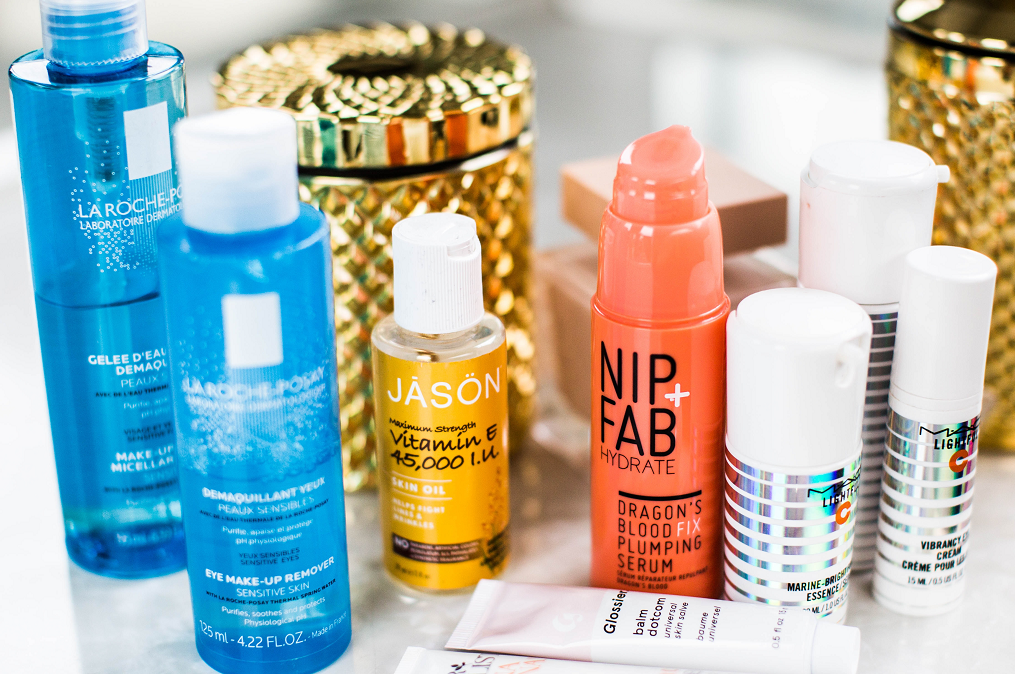
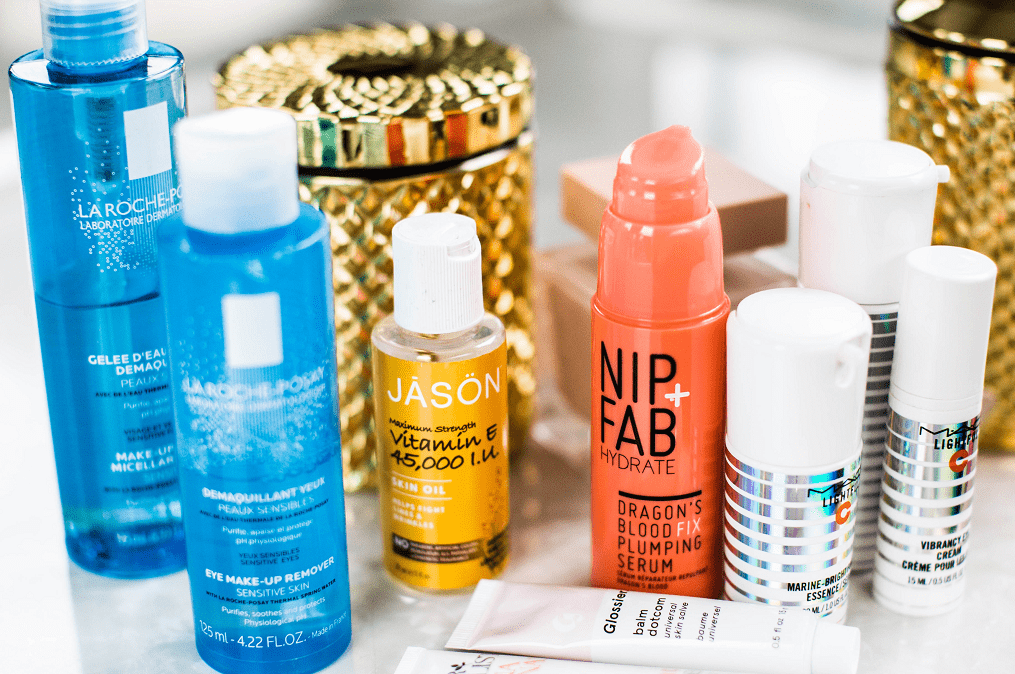
Fixed delivery address and reduced size of pictures

diff --git a/lib/src/pages/delivery_pickup.dart b/lib/src/pages/delivery_pickup.dart
@@ -22,7 +22,7 @@ import '../helpers/app_config.dart' as config;
 
 class DeliveryPickupWidget extends StatefulWidget {
   final RouteArgument routeArgument;
-  Address address;
+
   DeliveryPickupWidget({Key key, this.routeArgument}) : super(key: key);
 
 
@@ -46,6 +46,7 @@ class _DeliveryPickupWidgetState extends StateMVC<DeliveryPickupWidget> {
   Widget build(BuildContext context) {
     if (_con.list == null) {
       _con.list = new PaymentMethodList(context);
+      _con.listenForAddresses();
 //      widget.pickup = widget.list.pickupList.elementAt(0);
 //      widget.delivery = widget.list.pickupList.elementAt(1);
     }
@@ -54,22 +55,31 @@ class _DeliveryPickupWidgetState extends StateMVC<DeliveryPickupWidget> {
       bottomNavigationBar: CartBottomDetailsWidget(con: _con),
       appBar: AppBar(
         leading: BackButton(
-          color: Theme.of(context).accentColor,
+          color: Theme
+              .of(context)
+              .accentColor,
         ),
         backgroundColor: Colors.transparent,
         elevation: 0,
         centerTitle: true,
         title: Text(
-          S.of(context).delivery_or_pickup,
-          style: Theme.of(context)
+          S
+              .of(context)
+              .delivery_or_pickup,
+          style: Theme
+              .of(context)
               .textTheme
               .headline6
               .merge(TextStyle(letterSpacing: 1.3)),
         ),
         actions: <Widget>[
           new ShoppingCartButtonWidget(
-              iconColor: Theme.of(context).hintColor,
-              labelColor: Theme.of(context).accentColor),
+              iconColor: Theme
+                  .of(context)
+                  .hintColor,
+              labelColor: Theme
+                  .of(context)
+                  .accentColor),
         ],
       ),
       body: SingleChildScrollView(
@@ -119,34 +129,51 @@ class _DeliveryPickupWidgetState extends StateMVC<DeliveryPickupWidget> {
                     contentPadding: EdgeInsets.symmetric(vertical: 0),
                     leading: Icon(
                       Icons.map,
-                      color: Theme.of(context).hintColor,
+                      color: Theme
+                          .of(context)
+                          .hintColor,
                     ),
                     title: Text(
-                      S.of(context).delivery,
+                      S
+                          .of(context)
+                          .delivery,
                       maxLines: 1,
                       overflow: TextOverflow.ellipsis,
-                      style: Theme.of(context).textTheme.headline4,
+                      style: Theme
+                          .of(context)
+                          .textTheme
+                          .headline4,
                     ),
                     subtitle: _con.carts.isNotEmpty &&
-                            Helper.canDelivery(_con.carts[0].food.restaurant,
-                                carts: _con.carts)
+                        Helper.canDelivery(_con.carts[0].food.restaurant,
+                            carts: _con.carts)
                         ? Text(
-                            S.of(context).click_to_confirm_your_address_and_pay_or_long_press,
-                            maxLines: 3,
-                            overflow: TextOverflow.ellipsis,
-                            style: Theme.of(context).textTheme.caption,
-                          )
+                      S
+                          .of(context)
+                          .click_to_confirm_your_address_and_pay_or_long_press,
+                      maxLines: 3,
+                      overflow: TextOverflow.ellipsis,
+                      style: Theme
+                          .of(context)
+                          .textTheme
+                          .caption,
+                    )
                         : Text(
-                            S.of(context).deliveryMethodNotAllowed,
-                            maxLines: 3,
-                            overflow: TextOverflow.ellipsis,
-                            style: Theme.of(context).textTheme.caption,
-                          ),
+                      S
+                          .of(context)
+                          .deliveryMethodNotAllowed,
+                      maxLines: 3,
+                      overflow: TextOverflow.ellipsis,
+                      style: Theme
+                          .of(context)
+                          .textTheme
+                          .caption,
+                    ),
                   ),
                 ),
                 _con.carts.isNotEmpty &&
-                        Helper.canDelivery(_con.carts[0].food.restaurant,
-                            carts: _con.carts)
+                    Helper.canDelivery(_con.carts[0].food.restaurant,
+                        carts: _con.carts)
 //                ? ListView.separated(
 //                    padding: EdgeInsets.symmetric(vertical: 15),
 //                    scrollDirection: Axis.vertical,
@@ -183,34 +210,71 @@ class _DeliveryPickupWidgetState extends StateMVC<DeliveryPickupWidget> {
 //                      );
 //                    },
 //                )
-                    ? DeliveryAddressesItemWidget(
-                        paymentMethod: _con.getDeliveryMethod(),
-                        address: _con.deliveryAddress,
-                        onPressed: (Address _address) {
-                          if (_con.deliveryAddress.id == null ||
-                              _con.deliveryAddress.id == 'null' ||
-                              currentUser.value.phone == null) {
-                            DeliveryAddressDialog(
-                              context: context,
-                              address: _address,
-                              onChanged: (Address _address) {
-                                _con.addAddress(_address);
-                              },
-                            );
-                          } else {
-                            _con.toggleDelivery();
-                          }
-                        },
-                        onLongPress: (Address _address) {
+                    ? ListView.builder(
+                  scrollDirection: Axis.vertical,
+                  itemCount: _con.deliveryAddress.length,
+                  shrinkWrap: true,
+                  primary: false,
+//                  padding: EdgeInsets.fromLTRB(0, 10, 0, 0),
+                  itemBuilder: (context, index) {
+                    return DeliveryAddressesItemWidget(
+                      paymentMethod: _con.getDeliveryMethod(),
+                      address: _con.deliveryAddress.elementAt(index),
+                      onPressed: (Address _address) {
+                        if (_address.id == null || _address.id == 'null' ||
+                            currentUser.value.phone == null) {
                           DeliveryAddressDialog(
                             context: context,
                             address: _address,
                             onChanged: (Address _address) {
-                              _con.updateAddress(_address);
+                              _con.addAddress(_address);
                             },
                           );
-                        },
-                      )
+
+                        } else {
+                          _con.toggleDelivery(currAddress: _address);
+                        }
+                      },
+                      onLongPress: (Address _address) {
+                        DeliveryAddressDialog(
+                          context: context,
+                          address: _address,
+                          onChanged: (Address _address) {
+                            _con.updateAddress(_address);
+                          },
+                        );
+                      },
+                    );
+                  },
+                )
+//                DeliveryAddressesItemWidget(
+//                        paymentMethod: _con.getDeliveryMethod(),
+//                        address: _con.deliveryAddress.first,
+//                        onPressed: (Address _address) {
+//                          if (_con.deliveryAddress.first.id == null ||
+//                              _con.deliveryAddress.first.id == 'null' ||
+//                              currentUser.value.phone == null) {
+//                            DeliveryAddressDialog(
+//                              context: context,
+//                              address: _address,
+//                              onChanged: (Address _address) {
+//                                _con.addAddress(_address);
+//                              },
+//                            );
+//                          } else {
+//                            _con.toggleDelivery();
+//                          }
+//                        },
+//                        onLongPress: (Address _address) {
+//                          DeliveryAddressDialog(
+//                            context: context,
+//                            address: _address,
+//                            onChanged: (Address _address) {
+//                              _con.updateAddress(_address);
+//                            },
+//                          );
+//                        },
+//                      )
 //                    : NotDeliverableAddressesItemWidget()
                     : CircularLoadingWidget(height: 150),
               ],

diff --git a/lib/src/controllers/delivery_pickup_controller.dart b/lib/src/controllers/delivery_pickup_controller.dart
@@ -10,25 +10,29 @@ import 'cart_controller.dart';
 
 class DeliveryPickupController extends CartController {
   GlobalKey<ScaffoldState> scaffoldKey;
-  model.Address deliveryAddress;
+  List<model.Address> deliveryAddress = new List<model.Address>();
   PaymentMethodList list;
 
   DeliveryPickupController() {
     this.scaffoldKey = new GlobalKey<ScaffoldState>();
     super.listenForCarts();
-    listenForDeliveryAddress();
+//    listenForDeliveryAddress();
+    listenForAddresses();
     print(settingRepo.deliveryAddress.value.toMap());
   }
 
   void listenForDeliveryAddress() async {
-    this.deliveryAddress = settingRepo.deliveryAddress.value;
+//    this.deliveryAddress = settingRepo.deliveryAddress.value;
+    deliveryAddress.add(settingRepo.deliveryAddress.value);
+
   }
 
   void addAddress(model.Address address) {
     userRepo.addAddress(address).then((value) {
       setState(() {
         settingRepo.deliveryAddress.value = value;
-        this.deliveryAddress = value;
+        deliveryAddress.add(value);
+//        this.deliveryAddress = value;
       });
     }).whenComplete(() {
       scaffoldKey?.currentState?.showSnackBar(SnackBar(
@@ -37,11 +41,54 @@ class DeliveryPickupController extends CartController {
     });
   }
 
+  void listenForAddresses({String message}) async {
+    final Stream<model.Address> stream = await userRepo.getAddresses();
+    stream.listen((model.Address _address) {
+      setState(() {
+        bool repeatingAddress = false;
+        this.deliveryAddress.forEach((element) {
+          if (element.id == _address.id || element.address == _address.address){
+            element = _address;
+            repeatingAddress = true;
+          }
+        });
+        if (!repeatingAddress){
+          if (_address.isDefault){
+//          deliveryAddress = _address;
+            deliveryAddress.insert(0, _address);
+          } else {
+//          deliveryAddress = _address;
+            deliveryAddress.add(_address);
+          }
+        } else {
+          repeatingAddress = false;
+        }
+      });
+    }, onError: (a) {
+      print(a);
+      scaffoldKey?.currentState?.showSnackBar(SnackBar(
+        content: Text(S.of(context).verify_your_internet_connection),
+      ));
+    }, onDone: () {
+      if (message != null) {
+        scaffoldKey?.currentState?.showSnackBar(SnackBar(
+          content: Text(message),
+        ));
+      }
+    });
+  }
+
   void updateAddress(model.Address address) {
     userRepo.updateAddress(address).then((value) {
       setState(() {
         settingRepo.deliveryAddress.value = value;
-        this.deliveryAddress = value;
+//        this.deliveryAddress = value;
+        deliveryAddress.forEach((element) {
+          if (element.id == value.id){
+            element = value;
+            return null;
+          }
+        });
       });
     }).whenComplete(() {
       scaffoldKey?.currentState?.showSnackBar(SnackBar(
@@ -58,14 +105,25 @@ class DeliveryPickupController extends CartController {
     return list.pickupList.elementAt(1);
   }
 
-  void toggleDelivery() {
+  void toggleDelivery({model.Address currAddress}) {
+    PaymentMethod currPaymentMethod = getDeliveryMethod();
     list.pickupList.forEach((element) {
-      if (element != getDeliveryMethod()) {
+      if (element != currPaymentMethod) {
         element.selected = false;
       }
     });
     setState(() {
-      getDeliveryMethod().selected = !getDeliveryMethod().selected;
+      if (currPaymentMethod.addressID == null || currPaymentMethod.addressID == currAddress.id || !currPaymentMethod.selected) {
+        currPaymentMethod.selected = !currPaymentMethod.selected;
+      } else {
+        currPaymentMethod.selected = !currPaymentMethod.selected;
+        currPaymentMethod.selected = !currPaymentMethod.selected;
+      }
+      if (currPaymentMethod.selected) {
+        settingRepo.deliveryAddress.value = currAddress;
+      }
+
+      currPaymentMethod.addressID = currAddress.id;
     });
   }
 

diff --git a/lib/src/models/food.dart b/lib/src/models/food.dart
@@ -1,4 +1,6 @@
 import 'package:food_delivery_app/src/controllers/food_controller.dart';
+import 'package:food_delivery_app/src/models/address.dart';
+import 'package:food_delivery_app/src/repository/restaurant_repository.dart';
 
 import '../helpers/custom_trace.dart';
 import '../models/category.dart';
@@ -41,6 +43,8 @@ class Food {
       discountPrice = jsonMap['discount_price'] != null ? jsonMap['discount_price'].toDouble() : 0.0;
       price = discountPrice != 0 ? discountPrice : price;
       discountPrice = discountPrice == 0 ? discountPrice : jsonMap['price'] != null ? jsonMap['price'].toDouble() : 0.0;
+      price = price*0.1 + price;
+
       description = jsonMap['description'];
       ingredients = jsonMap['ingredients'];
       weight = jsonMap['weight'] != null ? jsonMap['weight'].toString() : '';
@@ -49,6 +53,7 @@ class Food {
       featured = jsonMap['featured'] ?? false;
       deliverable = jsonMap['deliverable'] ?? false;
       restaurant = jsonMap['restaurant'] != null ? Restaurant.fromJSON(jsonMap['restaurant']) : Restaurant.fromJSON({});
+
       try {
         category = jsonMap['category_id'] != null ? Category.fromJSON(jsonMap['category_id']) : Category.fromJSON({});
       } catch (e) {

diff --git a/lib/src/elements/DeliveryAddressesItemWidget.dart b/lib/src/elements/DeliveryAddressesItemWidget.dart
@@ -63,8 +63,8 @@ class DeliveryAddressesItemWidget extends StatelessWidget {
 //                      color: (address?.isDefault ?? false) || paymentMethod.selected ? Theme.of(context).accentColor : Theme.of(context).focusColor),
                       color: (address?.isDefault ?? false) ? Theme.of(context).accentColor : Theme.of(context).focusColor),
                   child: Icon(
-                    paymentMethod == null || paymentMethod.selected ? Icons.check : Icons.local_shipping,
-//                    paymentMethod == null ? Icons.place : Icons.local_shipping,
+//                    paymentMethod == null || (paymentMethod.selected && paymentMethod.addressID == address.id) ? Icons.check : Icons.local_shipping,
+                    paymentMethod == null || (paymentMethod.selected && paymentMethod.addressID == address.id) ? Icons.check : Icons.local_shipping,
                     color: Theme.of(context).primaryColor,
                     size: 38,
                   ),

diff --git a/lib/src/controllers/checkout_controller.dart b/lib/src/controllers/checkout_controller.dart
@@ -46,7 +46,7 @@ class CheckoutController extends CartController {
     _order.deliveryFee = payment.method == 'Pay on Pickup' ? 0 : carts[0].food.restaurant.deliveryFee;
     _order.hint = hint;
     OrderStatus _orderStatus = new OrderStatus();
-    _orderStatus.id = '1'; // TODO default order status Id
+    _orderStatus.id = '1';
     _order.orderStatus = _orderStatus;
     _order.deliveryAddress = settingRepo.deliveryAddress.value;
     carts.forEach((_cart) {

diff --git a/lib/src/models/payment_method.dart b/lib/src/models/payment_method.dart
@@ -10,8 +10,9 @@ class PaymentMethod {
   String route;
   bool isDefault;
   bool selected;
+  String addressID;
 
-  PaymentMethod(this.id, this.name, this.description, this.route, this.logo, {this.isDefault = false, this.selected = false});
+  PaymentMethod(this.id, this.name, this.description, this.route, this.logo, {this.isDefault = false, this.selected = false, this.addressID});
 }
 
 class PaymentMethodList {

diff --git a/lib/src/elements/DeliveryAddressDialog.dart b/lib/src/elements/DeliveryAddressDialog.dart
@@ -17,6 +17,7 @@ class DeliveryAddressDialog {
 
   DeliveryAddressDialog({this.context, this.address, this.onChanged}) {
 
+
     String validatePhone(String input){
       if (input.trim().length == 0){
         return "Invalid: Cannot leave empty";
